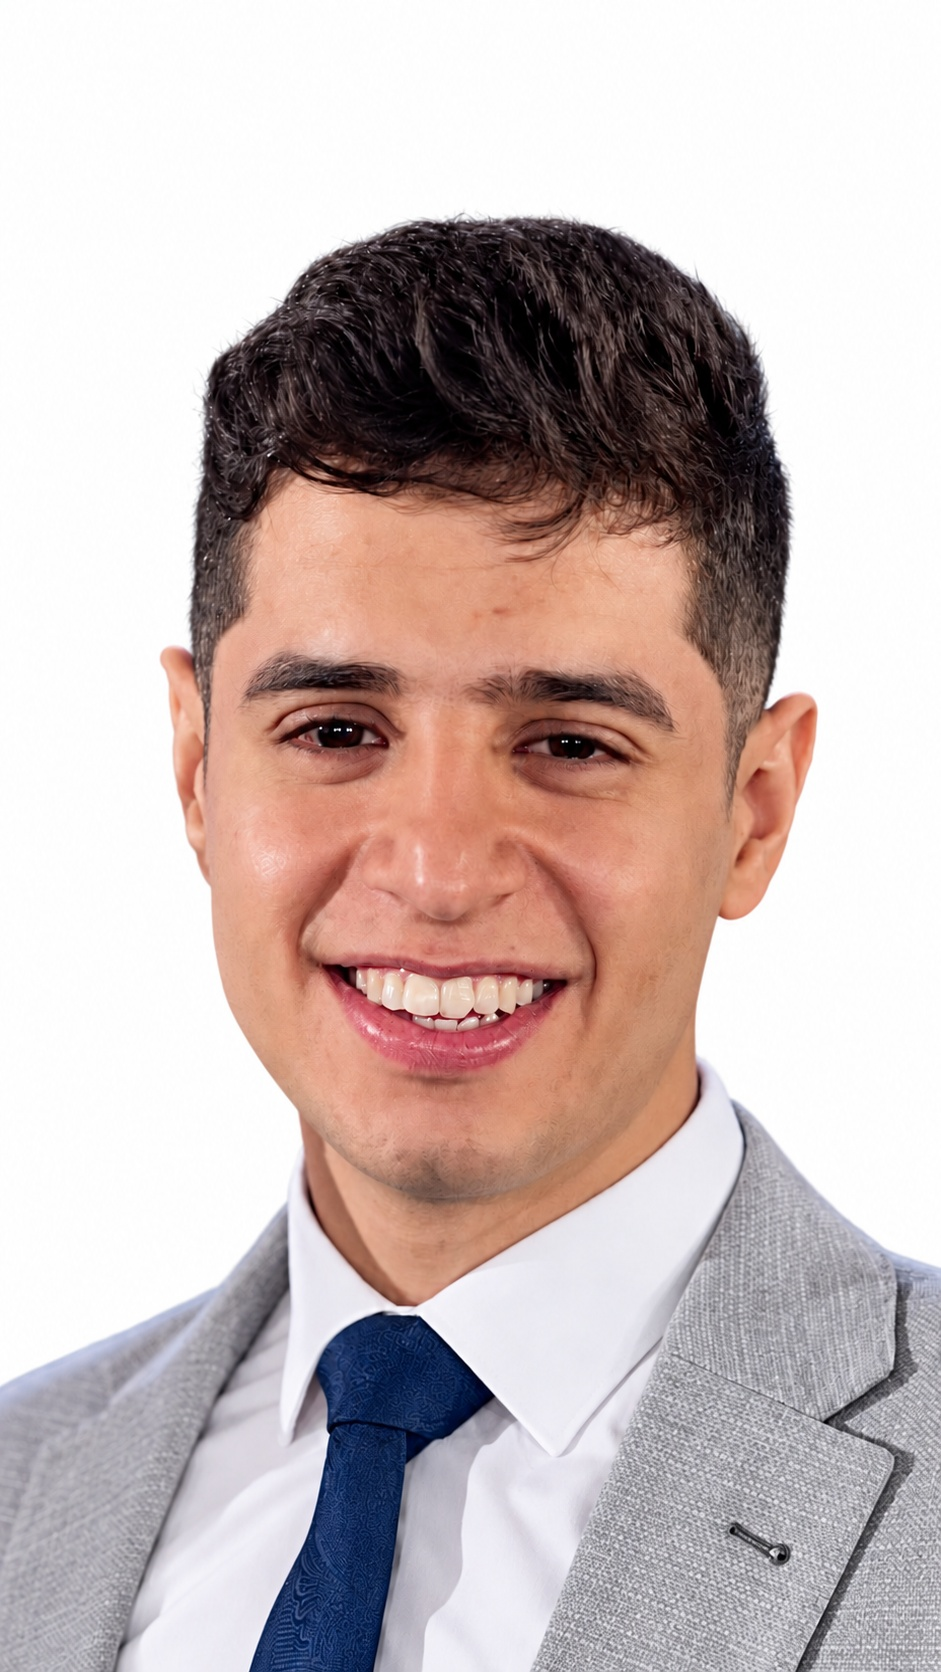
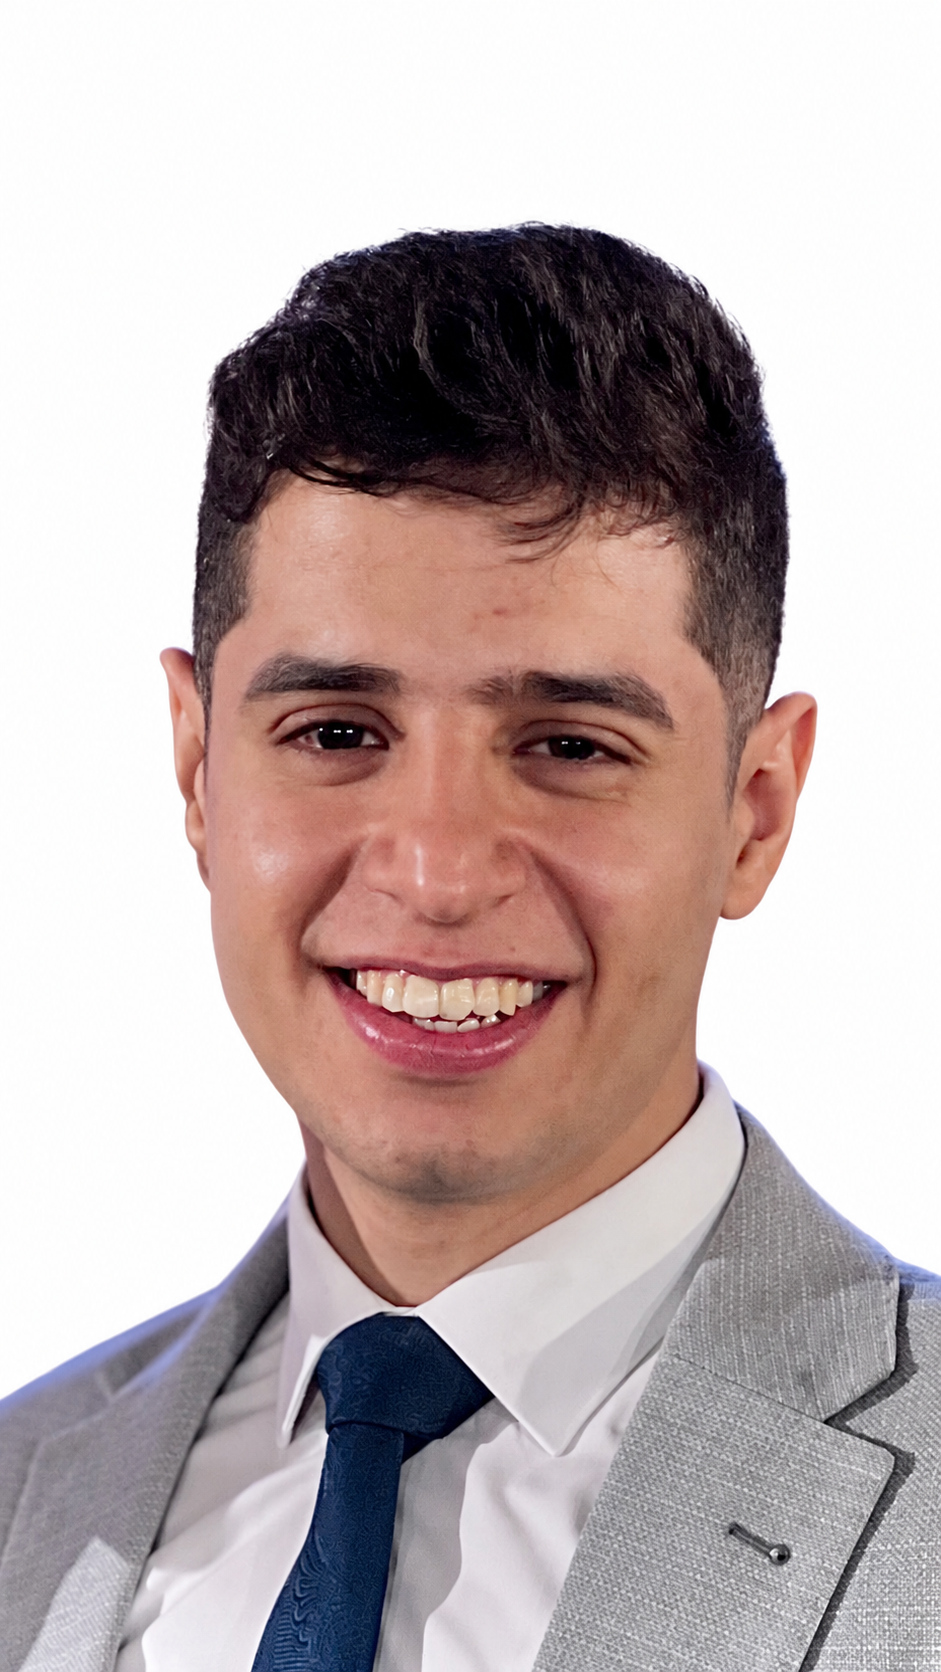
Use a more natural portrait from the original photo

diff --git a/index.html b/index.html
@@ -31,7 +31,7 @@ main{overflow-x:clip}
 @media print{.profile-photo{display:none}.identity{margin:8px 0}}
 </style></head><body>
 <header class="wrap"><nav class="nav" aria-label="Main navigation"><a class="brand" href="#home">Ahmed Eldeeb<span> /</span></a><button class="mobile" id="menu" aria-expanded="false" aria-controls="navlinks">Menu ☰</button><div class="navlinks" id="navlinks"><a href="#experience">Experience</a><a href="#skills">Expertise</a><a href="#education">Education</a><a href="#contact">Contact</a><a class="download" href="Ahmed-Eldeeb-CV.pdf" download>Download CV <span aria-hidden="true">↗</span></a></div></nav></header>
-<main id="home"><div class="wrap"><section class="hero" aria-label="About Ahmed"><div><div class="eyebrow"><span class="dot"></span> Irrigation / Design / Engineering</div><div class="identity"><img class="profile-photo" src="profile.jpg?v=white-hq" alt="Ahmed Eldeeb" width="941" height="1672" fetchpriority="high" decoding="async"><h1>Ahmed<br><span>Eldeeb.</span></h1></div><p class="role">Irrigation Engineer</p><p class="intro">Turning irrigation requirements into coordinated, buildable systems. Working in irrigation engineering since 2019, with experience in network design, hydraulic analysis and technical delivery — from tender drawings to site support.</p><div class="actions"><a class="download" href="Ahmed-Eldeeb-CV.pdf" download>Download CV <span aria-hidden="true">↓</span></a><a class="textlink" href="#experience">Explore my experience ↘</a></div><p class="location">AL HARAM, GIZA · EGYPT</p></div><div class="drawing" role="img" aria-label="Illustrative irrigation network with branching pipes and sprinkler coverage patterns"><svg viewBox="0 0 500 500" fill="none" xmlns="http://www.w3.org/2000/svg"><defs><pattern id="grid" width="25" height="25" patternUnits="userSpaceOnUse"><path d="M25 0H0V25" stroke="#b6c7dd" stroke-width=".5"/></pattern><pattern id="dots" width="9" height="9" patternUnits="userSpaceOnUse"><circle cx="2" cy="2" r=".6" fill="#839dbd"/></pattern></defs><rect width="500" height="500" fill="url(#grid)"/><path d="M90 110H422V390H80V178Q80 110 90 110Z" fill="#f5f7fa" fill-opacity=".48" stroke="#aabed7"/><path d="M125 155H385V235H125Z" fill="url(#dots)"/><path d="M125 275H385V355H125Z" fill="url(#dots)"/><g stroke="#6989b0" stroke-width=".9" stroke-dasharray="3 4"><circle cx="155" cy="195" r="53"/><circle cx="255" cy="195" r="53"/><circle cx="355" cy="195" r="53"/><circle cx="155" cy="315" r="53"/><circle cx="255" cy="315" r="53"/><circle cx="355" cy="315" r="53"/></g><g stroke="#365c8b" stroke-width="1.2"><path d="M105 195H355M105 315H355"/><path d="M155 188V202M148 195H162M255 188V202M248 195H262M355 188V202M348 195H362M155 308V322M148 315H162M255 308V322M248 315H262M355 308V322M348 315H362"/></g><path d="M65 420V255H105M105 195V315" stroke="#18385f" stroke-width="4"/><g fill="#eef3f9" stroke="#18385f" stroke-width="1.5"><circle cx="105" cy="255" r="9"/><path d="M105 249V261M99 255H111"/><rect x="54" y="409" width="22" height="22" rx="2"/></g><path d="M145 377H385M145 373V381M385 373V381" stroke="#90a7c4" stroke-width=".8"/><text x="249" y="391" fill="#526d90" font-size="8" font-family="monospace">NETWORK LAYOUT</text><path d="M446 95V65M440 77L446 65L452 77" stroke="#36577e" stroke-width="1.4"/><text x="443" y="56" fill="#36577e" font-size="10" font-family="monospace">N</text><text x="126" y="133" fill="#526d90" font-size="8" font-family="monospace">ZONE 01 / SPRINKLER COVERAGE</text><text x="126" y="272" fill="#526d90" font-size="8" font-family="monospace">ZONE 02</text><text x="122" y="250" fill="#36577e" font-size="8" font-family="monospace">CONTROL VALVE</text></svg><div class="drawlabel"><span>IRRIGATION STUDY / ILLUSTRATION</span><span>AE — 01</span></div></div></section><div class="ribbon"><div><strong>Since 2019</strong><span>Experience in irrigation engineering</span></div><div><strong>Design to delivery</strong><span>Tender · Shop drawings · As-built</span></div><div><strong>Technical leadership</strong><span>Quality · Coordination · Team development</span></div></div>
+<main id="home"><div class="wrap"><section class="hero" aria-label="About Ahmed"><div><div class="eyebrow"><span class="dot"></span> Irrigation / Design / Engineering</div><div class="identity"><img class="profile-photo" src="profile.jpg?v=natural-portrait" alt="Ahmed Eldeeb" width="941" height="1672" fetchpriority="high" decoding="async"><h1>Ahmed<br><span>Eldeeb.</span></h1></div><p class="role">Irrigation Engineer</p><p class="intro">Turning irrigation requirements into coordinated, buildable systems. Working in irrigation engineering since 2019, with experience in network design, hydraulic analysis and technical delivery — from tender drawings to site support.</p><div class="actions"><a class="download" href="Ahmed-Eldeeb-CV.pdf" download>Download CV <span aria-hidden="true">↓</span></a><a class="textlink" href="#experience">Explore my experience ↘</a></div><p class="location">AL HARAM, GIZA · EGYPT</p></div><div class="drawing" role="img" aria-label="Illustrative irrigation network with branching pipes and sprinkler coverage patterns"><svg viewBox="0 0 500 500" fill="none" xmlns="http://www.w3.org/2000/svg"><defs><pattern id="grid" width="25" height="25" patternUnits="userSpaceOnUse"><path d="M25 0H0V25" stroke="#b6c7dd" stroke-width=".5"/></pattern><pattern id="dots" width="9" height="9" patternUnits="userSpaceOnUse"><circle cx="2" cy="2" r=".6" fill="#839dbd"/></pattern></defs><rect width="500" height="500" fill="url(#grid)"/><path d="M90 110H422V390H80V178Q80 110 90 110Z" fill="#f5f7fa" fill-opacity=".48" stroke="#aabed7"/><path d="M125 155H385V235H125Z" fill="url(#dots)"/><path d="M125 275H385V355H125Z" fill="url(#dots)"/><g stroke="#6989b0" stroke-width=".9" stroke-dasharray="3 4"><circle cx="155" cy="195" r="53"/><circle cx="255" cy="195" r="53"/><circle cx="355" cy="195" r="53"/><circle cx="155" cy="315" r="53"/><circle cx="255" cy="315" r="53"/><circle cx="355" cy="315" r="53"/></g><g stroke="#365c8b" stroke-width="1.2"><path d="M105 195H355M105 315H355"/><path d="M155 188V202M148 195H162M255 188V202M248 195H262M355 188V202M348 195H362M155 308V322M148 315H162M255 308V322M248 315H262M355 308V322M348 315H362"/></g><path d="M65 420V255H105M105 195V315" stroke="#18385f" stroke-width="4"/><g fill="#eef3f9" stroke="#18385f" stroke-width="1.5"><circle cx="105" cy="255" r="9"/><path d="M105 249V261M99 255H111"/><rect x="54" y="409" width="22" height="22" rx="2"/></g><path d="M145 377H385M145 373V381M385 373V381" stroke="#90a7c4" stroke-width=".8"/><text x="249" y="391" fill="#526d90" font-size="8" font-family="monospace">NETWORK LAYOUT</text><path d="M446 95V65M440 77L446 65L452 77" stroke="#36577e" stroke-width="1.4"/><text x="443" y="56" fill="#36577e" font-size="10" font-family="monospace">N</text><text x="126" y="133" fill="#526d90" font-size="8" font-family="monospace">ZONE 01 / SPRINKLER COVERAGE</text><text x="126" y="272" fill="#526d90" font-size="8" font-family="monospace">ZONE 02</text><text x="122" y="250" fill="#36577e" font-size="8" font-family="monospace">CONTROL VALVE</text></svg><div class="drawlabel"><span>IRRIGATION STUDY / ILLUSTRATION</span><span>AE — 01</span></div></div></section><div class="ribbon"><div><strong>Since 2019</strong><span>Experience in irrigation engineering</span></div><div><strong>Design to delivery</strong><span>Tender · Shop drawings · As-built</span></div><div><strong>Technical leadership</strong><span>Quality · Coordination · Team development</span></div></div>
 <section class="section" id="experience"><div class="sectionhead"><div class="eyebrow">01 / Career</div><div><h2>Experience that<br>connects the details.</h2><p class="sectionintro">Technical office, design and leadership roles across irrigation engineering.</p></div></div><div class="experience">
 <article class="job"><div><h3>Sr. Technical Office Engineer <span class="current">CURRENT</span></h3><p class="company">DME Holding · Heliopolis, Cairo</p></div><div class="date">NOV 2024 — PRESENT</div><ul><li>Prepare irrigation shop drawings, as-built drawings, calculation sheets, schedules and pump calculations.</li><li>Review designs and technical documents for compliance with project specifications and required standards.</li><li>Coordinate with site engineers and other disciplines, providing technical support and resolving site issues.</li><li>Track project progress, technical submissions and compliance with applicable codes and safety standards.</li></ul></article>
 <article class="job"><div><h3>Technical Office Team Leader</h3><p class="company">Typical Design · Maadi, Giza</p></div><div class="date">JUN 2023 — NOV 2024</div><ul><li>Discuss project objectives with clients and review designs, specifications and design criteria before delivery.</li><li>Select irrigation equipment, methods and materials to suit project requirements and water availability.</li><li>Plan team workloads, distribute assignments, and support training, coaching and professional development.</li></ul><details><summary>More responsibilities</summary><ul><li>Define project management processes and prioritize daily tasks to meet delivery targets.</li><li>Resolve operational challenges, conflicts and coordination issues across projects.</li><li>Collaborate with senior leadership on best practices and improvements to team performance.</li></ul></details></article>
